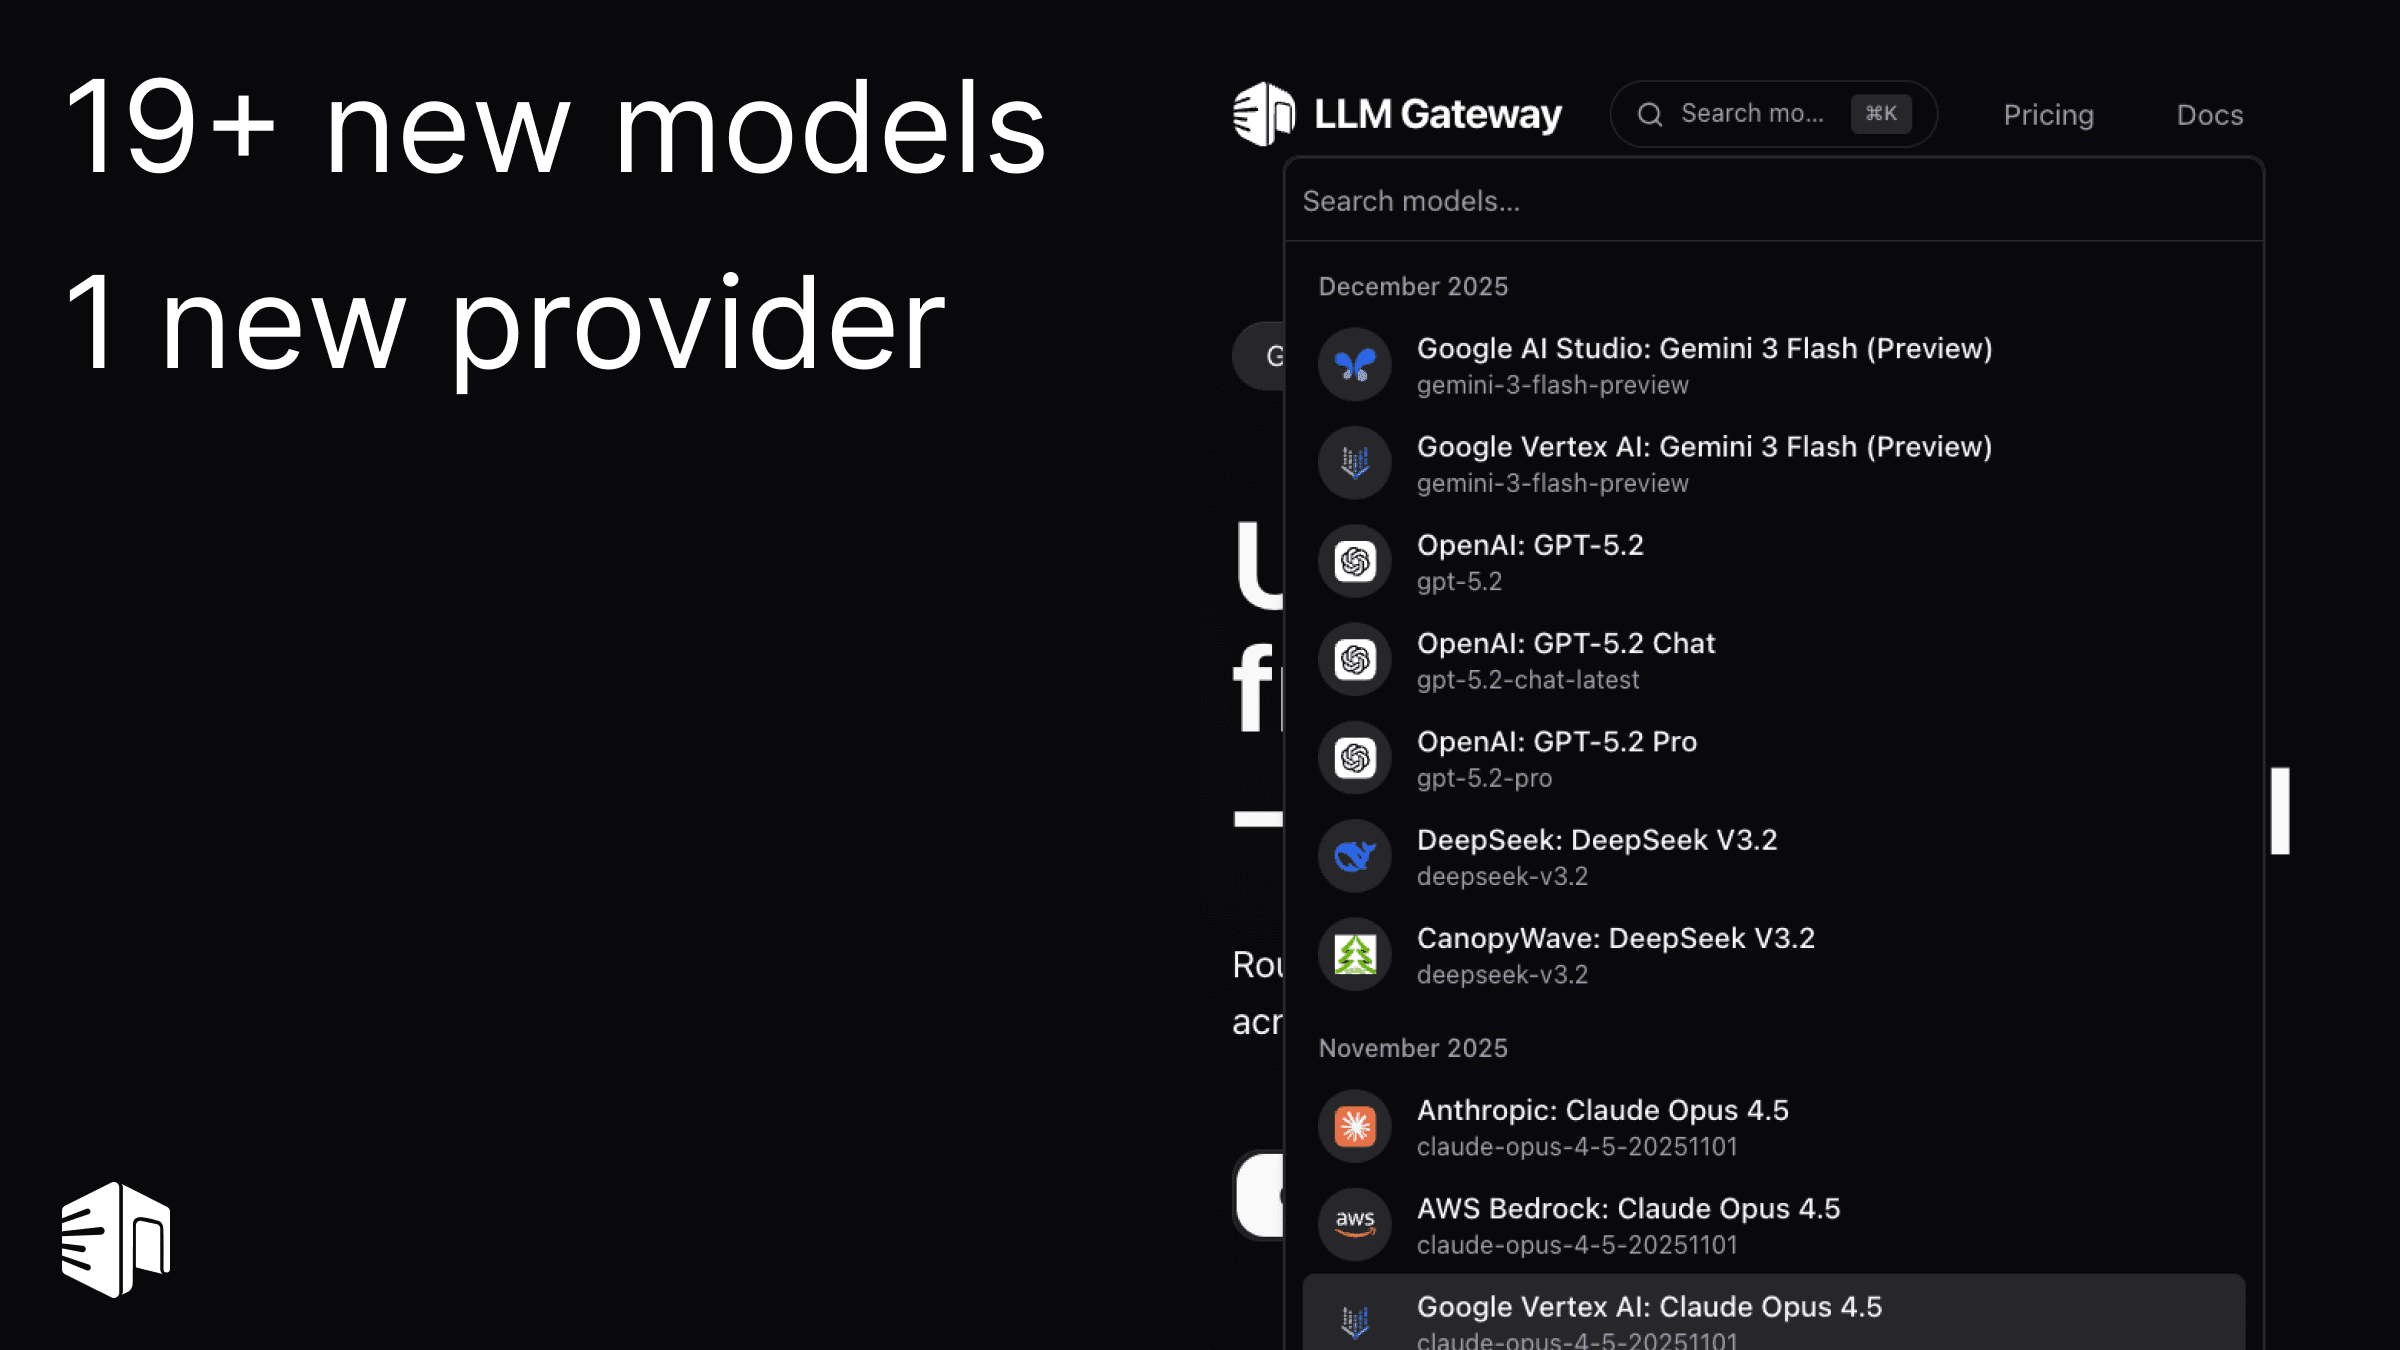
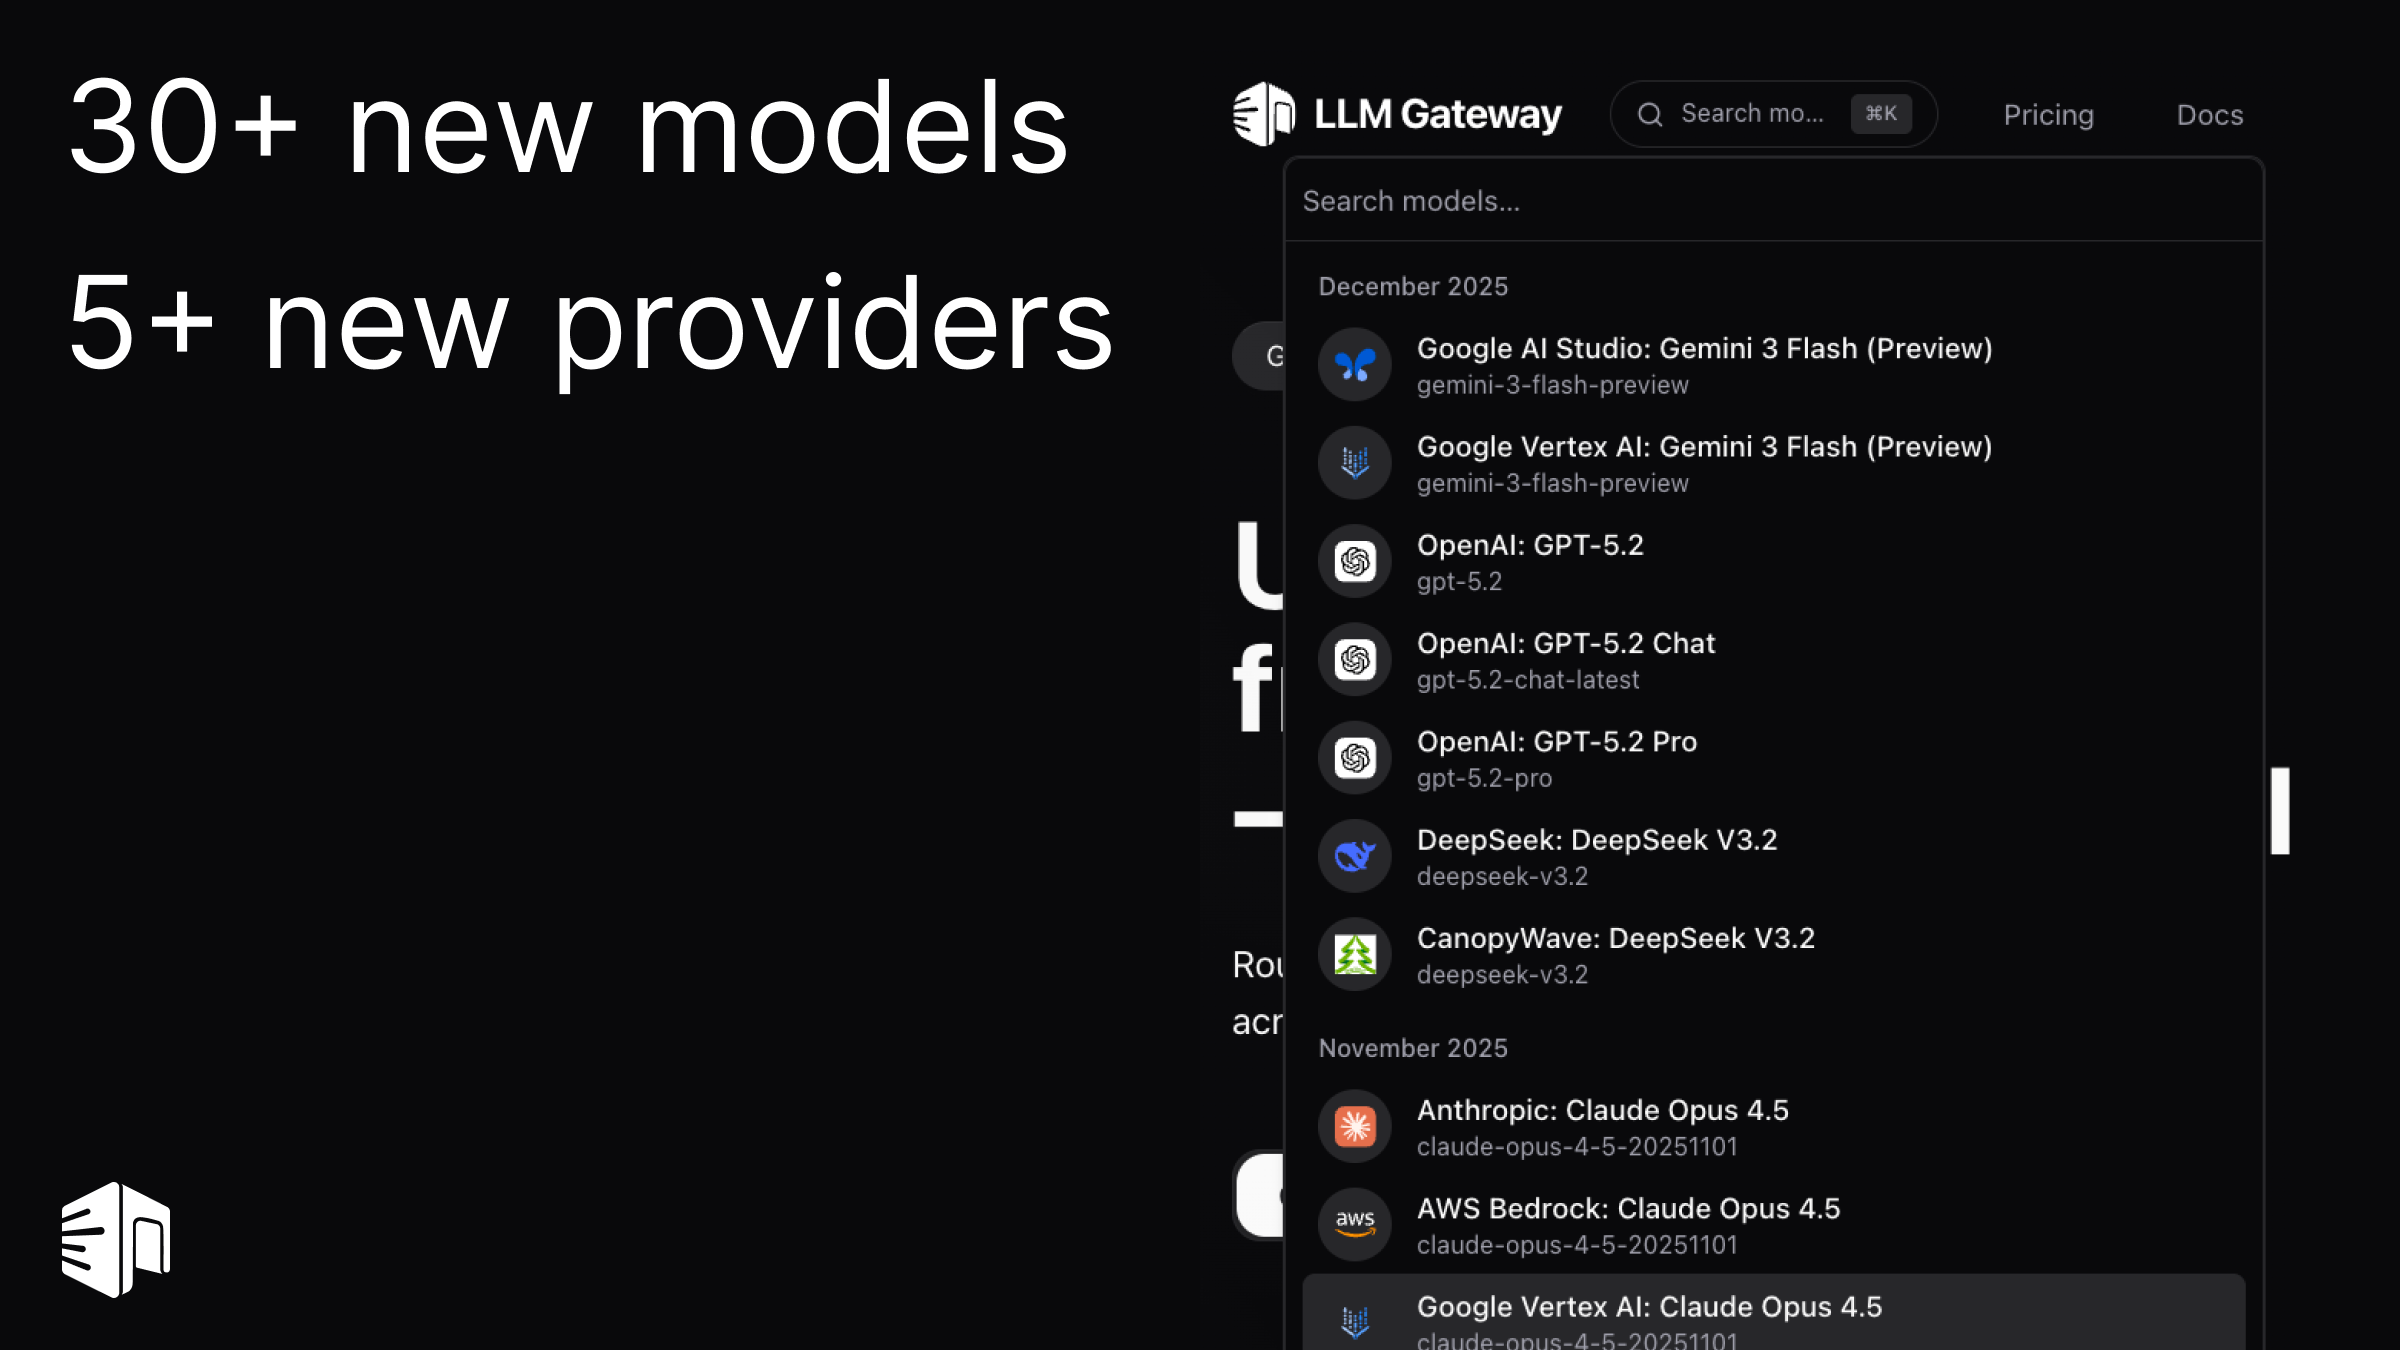
chore: rename blog to q4

diff --git a/packages/models/src/models/google.ts b/packages/models/src/models/google.ts
@@ -727,8 +727,8 @@ export const googleModels = [
 		aliases: ["nano banana", "nano banana 2"],
 		family: "google",
 		output: ["text", "image"],
-		releasedAt: new Date("2025-11-18"),
-		publishedAt: new Date("2025-11-18"),
+		releasedAt: new Date("2025-11-20"),
+		publishedAt: new Date("2025-11-20"),
 		providers: [
 			{
 				test: "skip",

diff --git a/apps/ui/src/content/blog/2025-12-18-q4-2025.md b/apps/ui/src/content/blog/2025-12-18-q4-2025.md
@@ -1,18 +1,18 @@
 ---
-id: blog-november-december-2025-roundup
-slug: november-december-2025-roundup
+id: blog-q4-2025-roundup
+slug: q4-2025-roundup
 date: 2025-12-18
-title: "November & December 2025: Major Platform Updates"
-summary: "Two months of updates: 15+ new models, team management, referral program, tiered pricing, data retention, admin dashboard, and much more."
+title: "Quarter 4 2025: Major Platform Updates"
+summary: "Three months of updates: 15+ new models, team management, referral program, tiered pricing, data retention, new providers, and much more."
 categories: ["Announcements"]
 image:
-  src: "/blog/november-december-2025-roundup.png"
-  alt: "November & December 2025 Feature Roundup"
+  src: "/blog/q4-2025.png"
+  alt: "Q4 2025 Feature Roundup"
   width: 2282
   height: 1198
 ---
 
-Here's everything new in LLM Gateway over the past two months — from cutting-edge models to powerful platform features.
+Here's everything new in LLM Gateway over the past three months — from cutting-edge models to powerful platform features.
 
 ## 🤖 New Models
 
@@ -29,7 +29,7 @@ Full **team collaboration** is now available:
 - **Prorated billing**: Fair charges based on your billing cycle
 - **Enterprise options**: SSO/SAML, SCIM provisioning, audit logs for larger teams
 
-[Learn more](/changelog/team-members-roles-and-seats)
+[Learn more](/changelog/team-members-roles-and-seats) | [Enterprise](/enterprise)
 
 ## 🏢 Admin Dashboard
 
@@ -100,13 +100,27 @@ Configure in **Settings → Organization → Data Retention**.
 
 [Explore timeline](/timeline)
 
+## ⚖ Model Comparison
+
+Compare models side-by-side with our new **comparison page**:
+
+- **Input/output token pricing** — Compare costs across providers
+- **Feature comparison** — See capabilities like streaming, vision, tools at a glance
+- **Context windows** — Compare model limits instantly
+
+[Compare models](/compare)
+
 ## 🎮 Playground Enhancements
+
+![Playground](/blog/updates/playground.png)
 
 - **Comparison mode** — Compare responses from multiple models side-by-side
 - **Group chat** — Chat with multiple models simultaneously
 - **GitHub MCP tools** — Integrated GitHub operations via Model Context Protocol
 - **Redirect after signin** — Return to your original URL after authentication
 - **Image configuration** — Set image parameters and reasoning effort options
+
+[Try out Chat Playground](https://chat.llmgateway.io)
 
 ## 📈 Analytics & Metrics
 
@@ -148,6 +162,18 @@ Configure in **Settings → Organization → Data Retention**.
 
 [View discounted models](/models?discounted=true)
 
+## 🌐 New Provider Support
+
+We've added support for major cloud providers and new partners:
+
+- **AWS Bedrock** — Access Llama and other models via Amazon's managed service
+- **Microsoft Azure** — Native Azure OpenAI integration
+- **Google Vertex AI** — Full Vertex AI support with global routing
+- **CanopyWave** — Discounted access to DeepSeek, Kimi, and more
+- **NanoGPT** — New provider option
+
+[Browse all providers](/providers)
+
 ## 📱 API Enhancements
 
 - **Effort parameter** — Control reasoning depth for Claude Opus 4.5
@@ -156,6 +182,10 @@ Configure in **Settings → Organization → Data Retention**.
 - **Thought signatures** — Included in Google tool calls
 - **Custom upload limits** — Configure per-gateway limits
 - **Unsupported message handling** — Clear feedback for unsupported features
+- **JSON schema response format** — Structured output with `json_schema` response format
+- **JSON Output filter** — Filter models by JSON output support in UI
+- **OpenAI JSON schema conversion** — Automatic format conversion for Google models
+- **DeepSeek JSON schema** — Native JSON schema output support for DeepSeek V3.1
 
 ## 📚 Documentation
 
